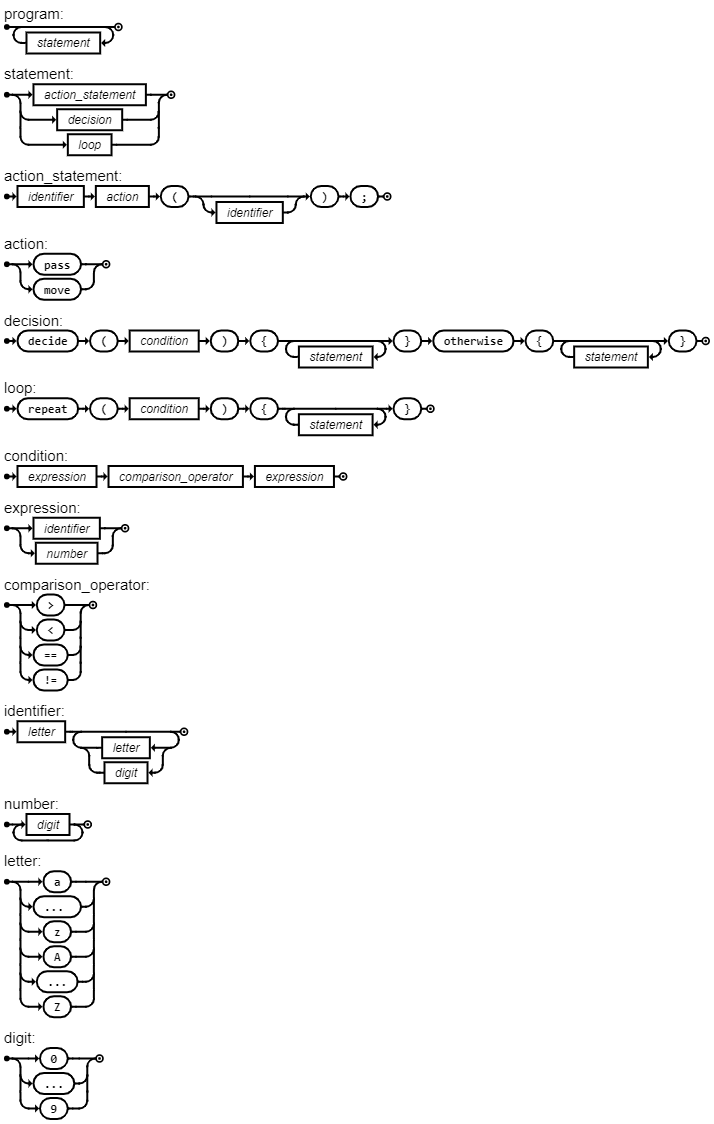
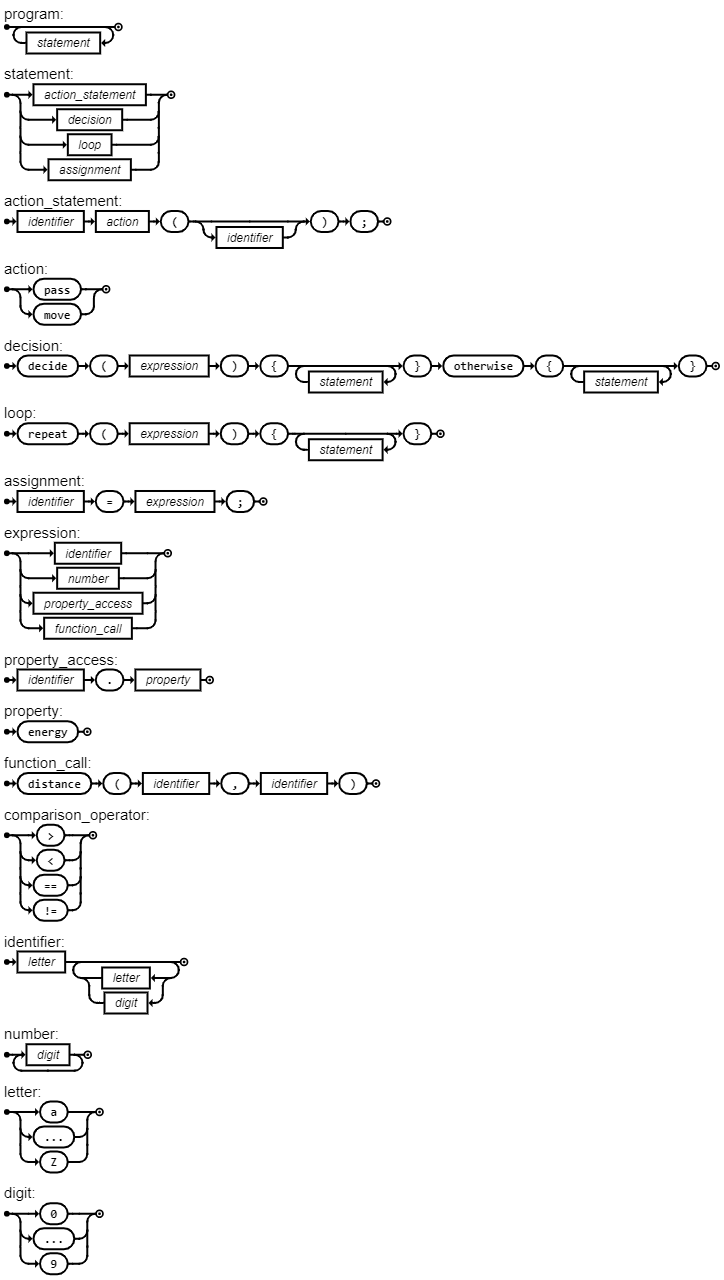
certo

Changed region(s): [[0.0, 0.0, 1.0, 0.9964]]

diff --git a/README.md b/README.md
@@ -6,37 +6,45 @@ ebnf
 ```
 program = { statement };
 
-statement = action_statement | decision | loop;
+statement = action_statement | decision | loop | assignment;
 
 action_statement = identifier, action, '(', [ identifier ], ')', ';';
 action = 'pass' | 'move';
 
-decision = 'decide', '(', condition, ')', '{', { statement }, '}', 'otherwise', '{', { statement }, '}';
+decision = 'decide', '(', expression, ')', '{', { statement }, '}', 'otherwise', '{', { statement }, '}';
 
-loop = 'repeat', '(', condition, ')', '{', { statement }, '}';
+loop = 'repeat', '(', expression, ')', '{', { statement }, '}';
 
-condition = expression, comparison_operator, expression;
-expression = identifier | number;
+assignment = identifier, '=', expression, ';';
+
+expression = identifier | number | property_access | function_call;
+property_access = identifier, '.', property;
+property = 'energy';
+function_call = 'distance', '(', identifier, ',', identifier, ')';
 comparison_operator = '>' | '<' | '==' | '!=';
 
 identifier = letter, { letter | digit };
 number = digit, { digit };
-letter = 'a' |'... '|'z' | 'A' |'...'| 'Z';
+letter = 'a' | '...' | 'Z';
 digit = '0' | '...' | '9';
+
 ```
 
 ## Example
 ```
-// Jogador1 passa a bola para Jogador2 se a distância for menor que 10, caso contrário, ele se move.
+player1;
+player2;
+newPosition = 30;
 
-decide (distance(jogador1, jogador2) < 10) {
-    jogador1.pass(jogador2);
+decide (distance(player1, player2) < 10) {
+    player1.pass(player2);
 } otherwise {
-    jogador1.move(newPosition);
+    player1.move(newPosition);
 }
 
-// Repete a ação de passar enquanto a energia do jogador1 for maior que 50.
-repeat (jogador1.energy > 50) {
-    jogador1.pass(jogador2);
+repeat (player1.energy > 50) {
+    player1.pass(player2);
+    // Suponha que cada passe reduz a energia de player1
+    player1.energy = player1.energy - 5;
 }
 ```
